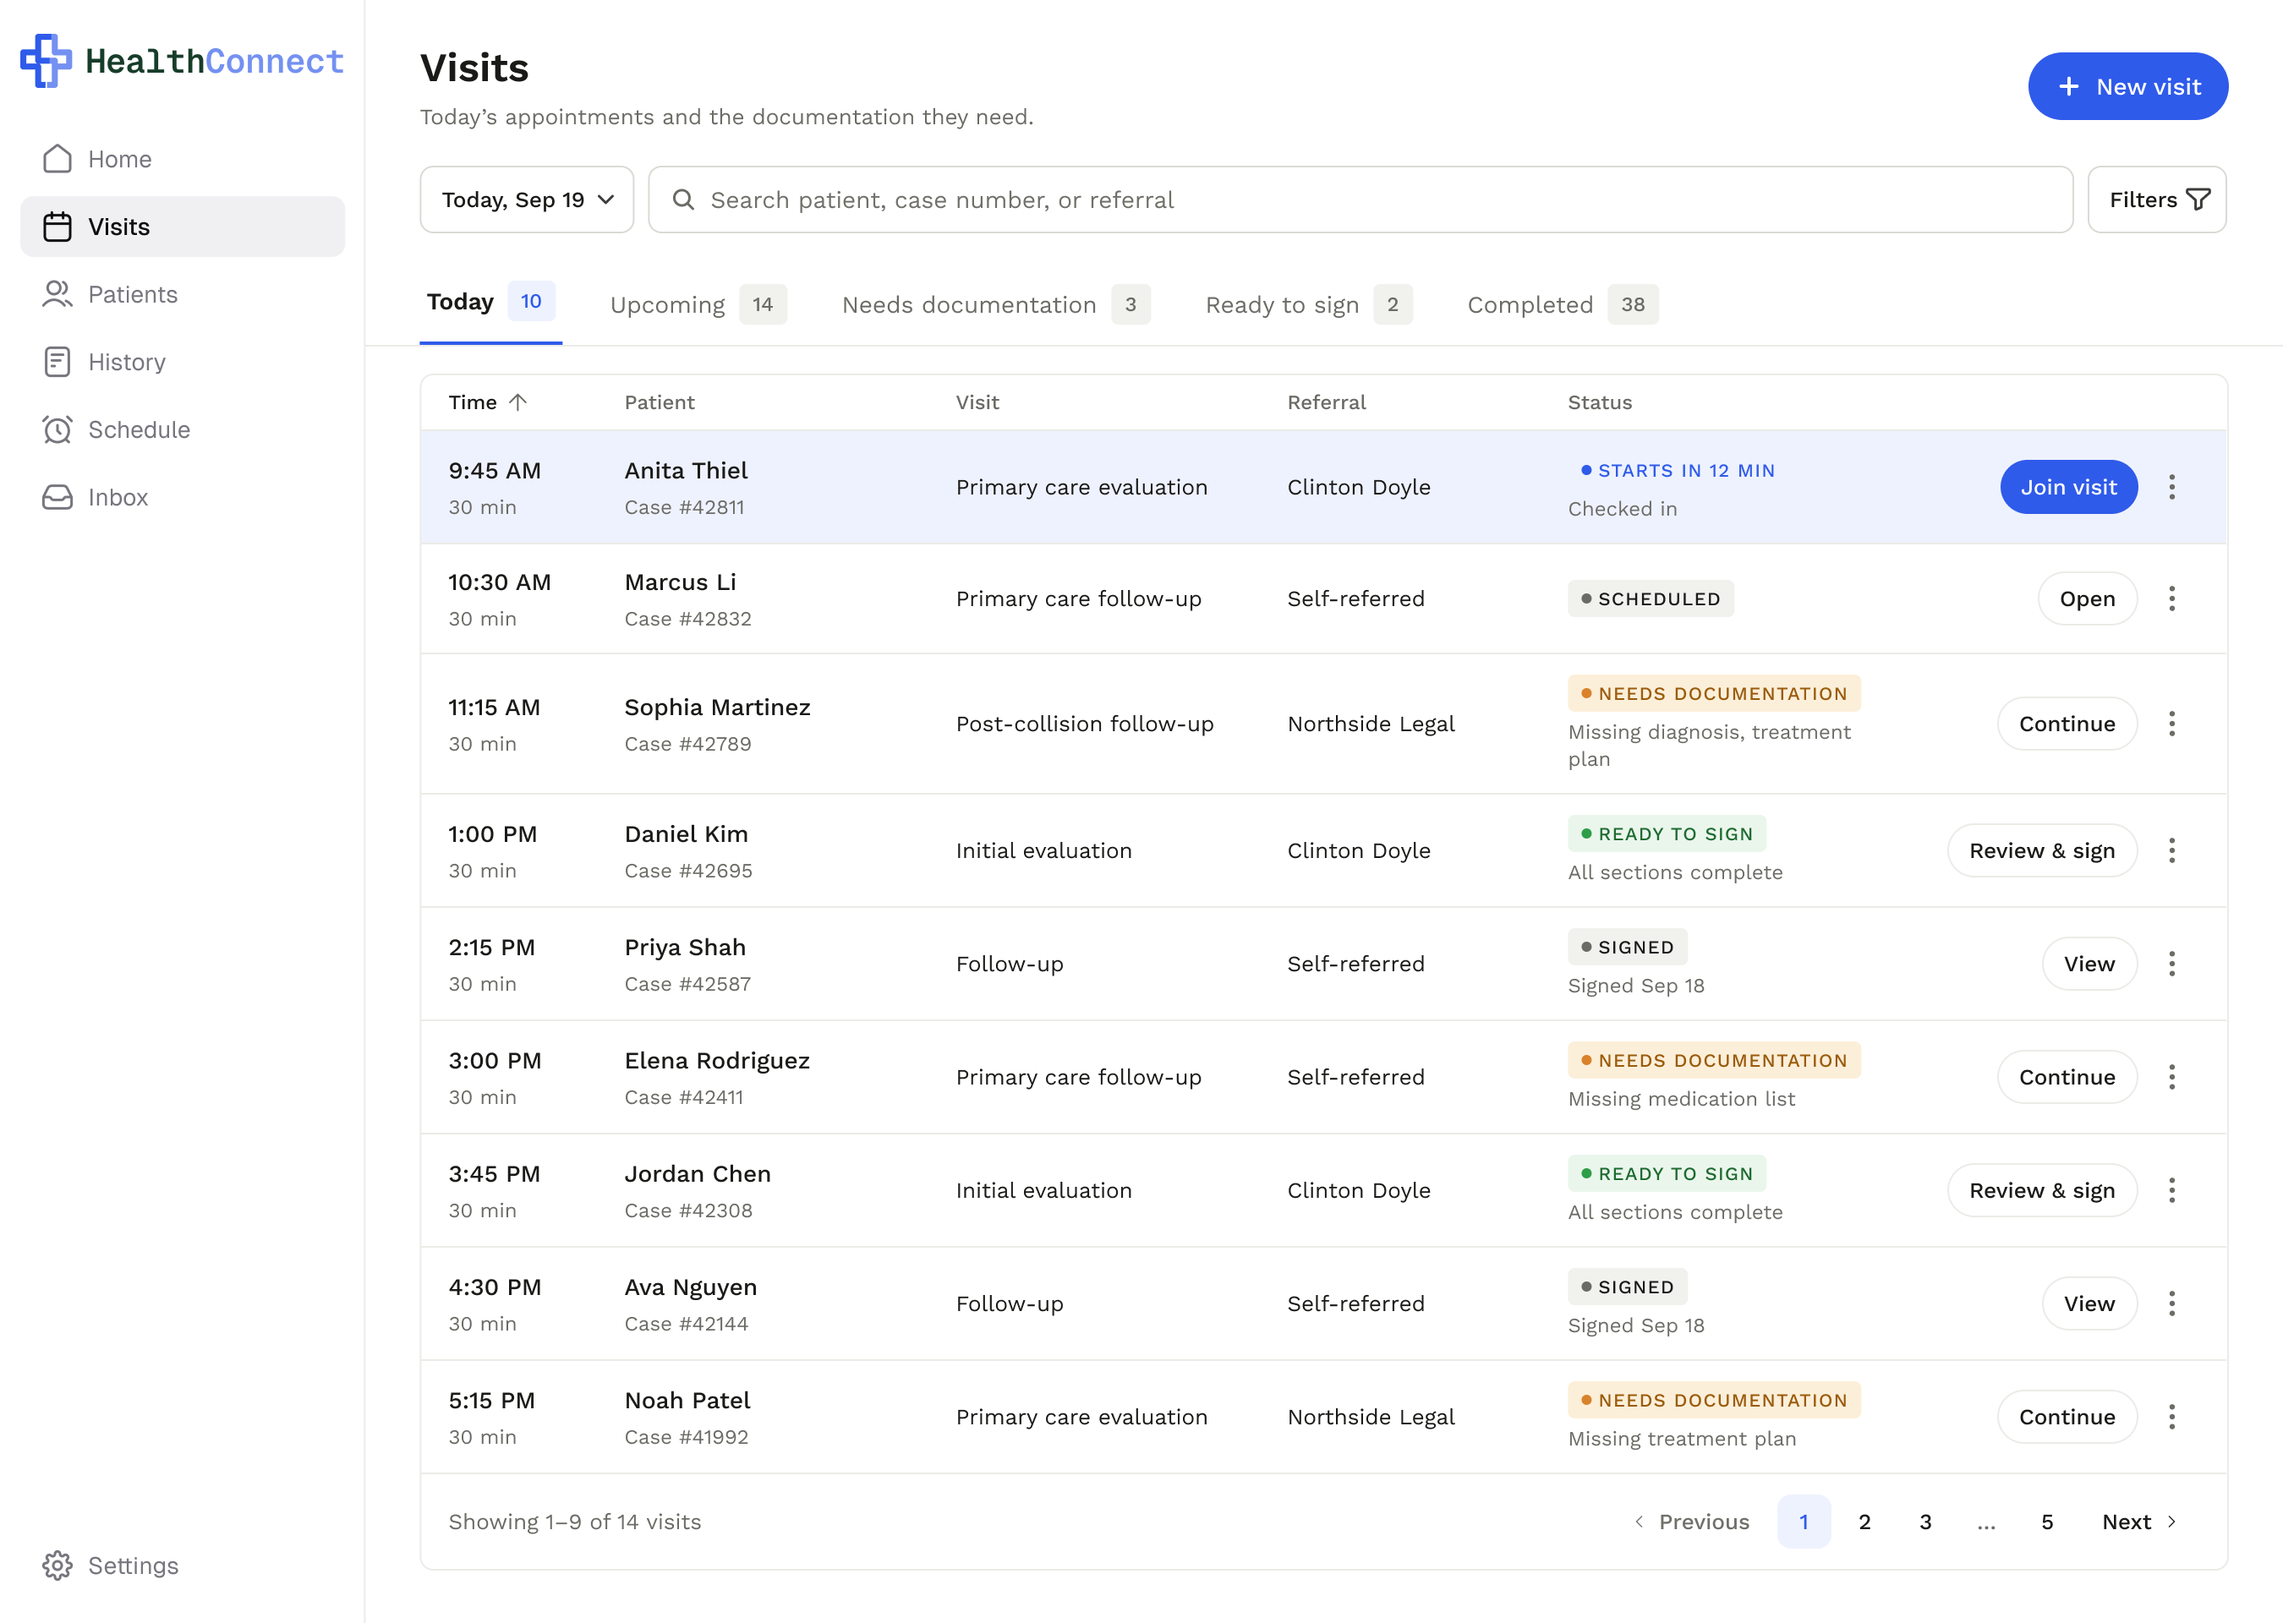
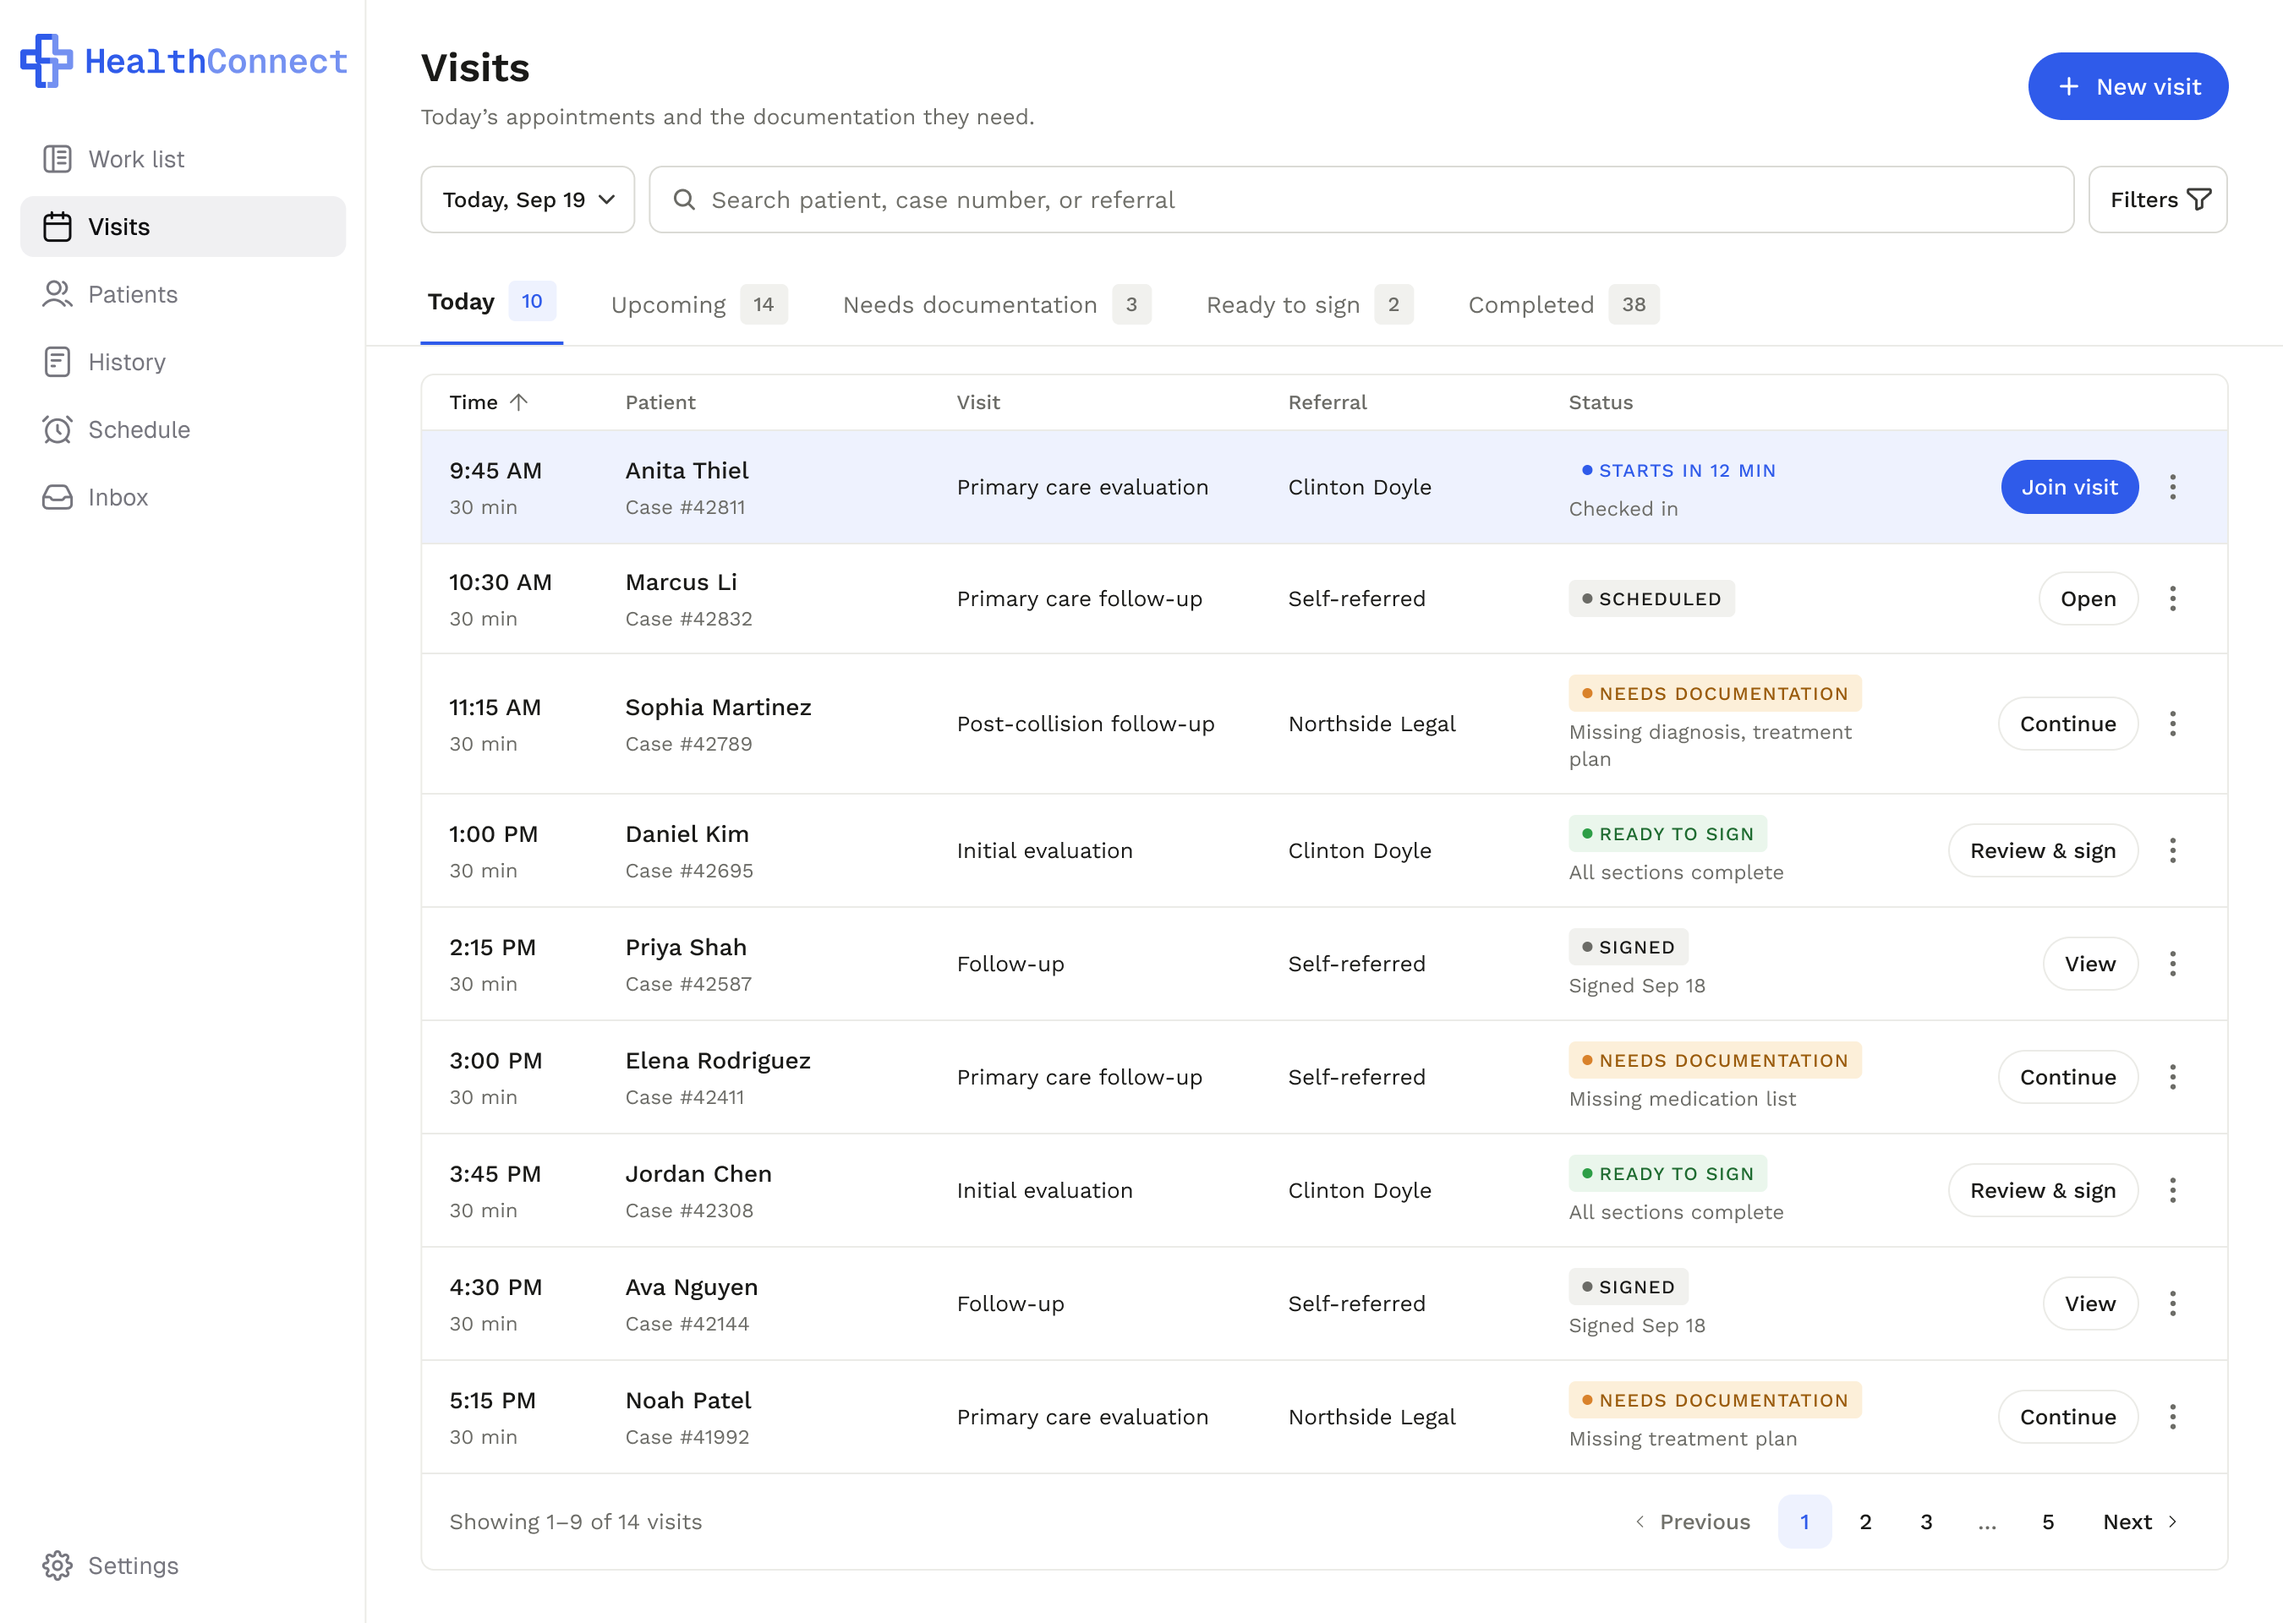
HealthConnect: Visits screen re-exported with Work list in the menu

diff --git a/healthconnect.html b/healthconnect.html
@@ -243,7 +243,7 @@
             <figcaption><h3><span class="cs-num">1</span>Work list</h3><p>Only what needs the doctor: visit forms to finish and files to sign, grouped by patient and visit, oldest visit first. A merged file opens to show the documents inside it.</p></figcaption>
           </figure>
           <figure class="cs-slide">
-            <div class="cs-shot cs-shot--natural"><img src="assets/healthconnect/doctor-visits.png" width="2700" height="1920" loading="lazy" alt="Visits for today: tabs for Today, Upcoming, Needs documentation, Ready to sign and Completed, and a table of visits with time, patient, visit type, referral, status and one action per row" /></div>
+            <div class="cs-shot cs-shot--natural"><img src="assets/healthconnect/doctor-visits.png?v=2" width="2700" height="1920" loading="lazy" alt="Visits for today: tabs for Today, Upcoming, Needs documentation, Ready to sign and Completed, and a table of visits with time, patient, visit type, referral, status and one action per row" /></div>
             <figcaption><h3><span class="cs-num">2</span>Visits</h3><p>The day's visits with their documentation status next to the schedule, so the next step for each visit, from joining a call to signing, sits on the same row.</p></figcaption>
           </figure>
           <figure class="cs-slide">
